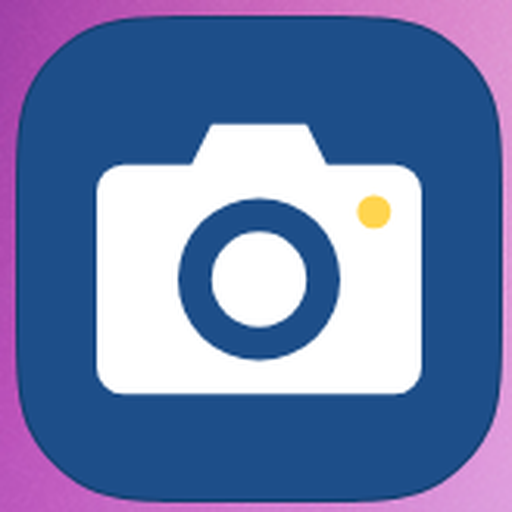
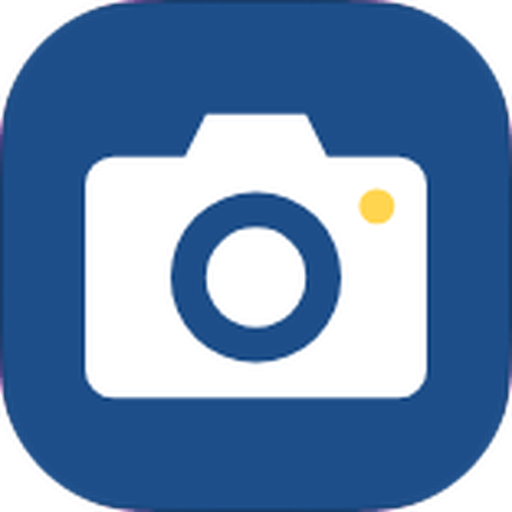
文案与图标修正：为什么做这个应用改为「被广告恶心到了，且 AI 正好赋予了我掀桌子的效率与技术实力」；图标去掉粉色外框只保留本体；首页图标居中（去掉位移与叠加圆角）

diff --git a/docs/.vitepress/theme/custom.css b/docs/.vitepress/theme/custom.css
@@ -27,15 +27,12 @@
   opacity: 0.55;
 }
 
-.VPHero .image-container {
-  transform: translate(-32px, -32px) scale(1.05);
-}
-
+/* 图标本身已自带圆角与留白，不再叠加圆角/位移，避免移动端偏离视觉中心 */
 .VPHero .image-src {
   max-width: 168px;
   max-height: 168px;
-  border-radius: 22%;
-  filter: drop-shadow(0 12px 28px rgba(15, 40, 80, 0.22));
+  border-radius: 0;
+  filter: drop-shadow(0 10px 24px rgba(15, 40, 80, 0.18));
 }
 
 .VPHero .name,

diff --git a/docs/index.md b/docs/index.md
@@ -63,7 +63,9 @@ features:
 
 工地留痕照片通常有三个要求：**时间对、地点对、内容对**，而且必须一眼看出来。市面上很多水印相机把水印当"贴纸"叠在图上，换个看图软件就没了；也有不少要登录、要会员、要上传。
 
-engCamera 是一个自用向的 Android 工程水印相机：**水印在烧录时就画进像素里**，拍完即成品；所有数据都在本机，不上传、不登录、不联网也能拍。它最初是为了自家工地的施工记录做的，用顺手了就一直维护下来。
+engCamera 是一个开源的 Android 工程水印相机：**水印在烧录时就画进像素里**，拍完即成品；所有数据都在本机，不上传、不登录、不联网也能拍。
+
+为什么做它？因为被广告恶心到了，且 AI 正好赋予了我掀桌子的效率与技术实力。
 
 - **不做云端**：没有账号、没有同步、没有广告 SDK，也不收集任何照片内容
 - **不做后期**：不需要导出到别的软件再加水印，快门一按即成片

diff --git a/docs/intro.md b/docs/intro.md
@@ -20,6 +20,12 @@ engCamera 选择第三条路：**水印在本地直接画进像素**。
 
 于是「预览看到什么样，成片就是什么样」成为一条硬约束，而不是一句宣传语。
 
+## 为什么做这个应用
+
+因为被广告恶心到了，且 AI 正好赋予了我掀桌子的效率与技术实力。
+
+市面上很多水印相机把水印当"贴纸"叠在图上，换个看图软件就没了；也有不少要登录、要会员、要上传。既然这些事一台手机就能自己做完，那就自己做。
+
 ## 主要特点
 
 ### 1. 所见即所得的水印
